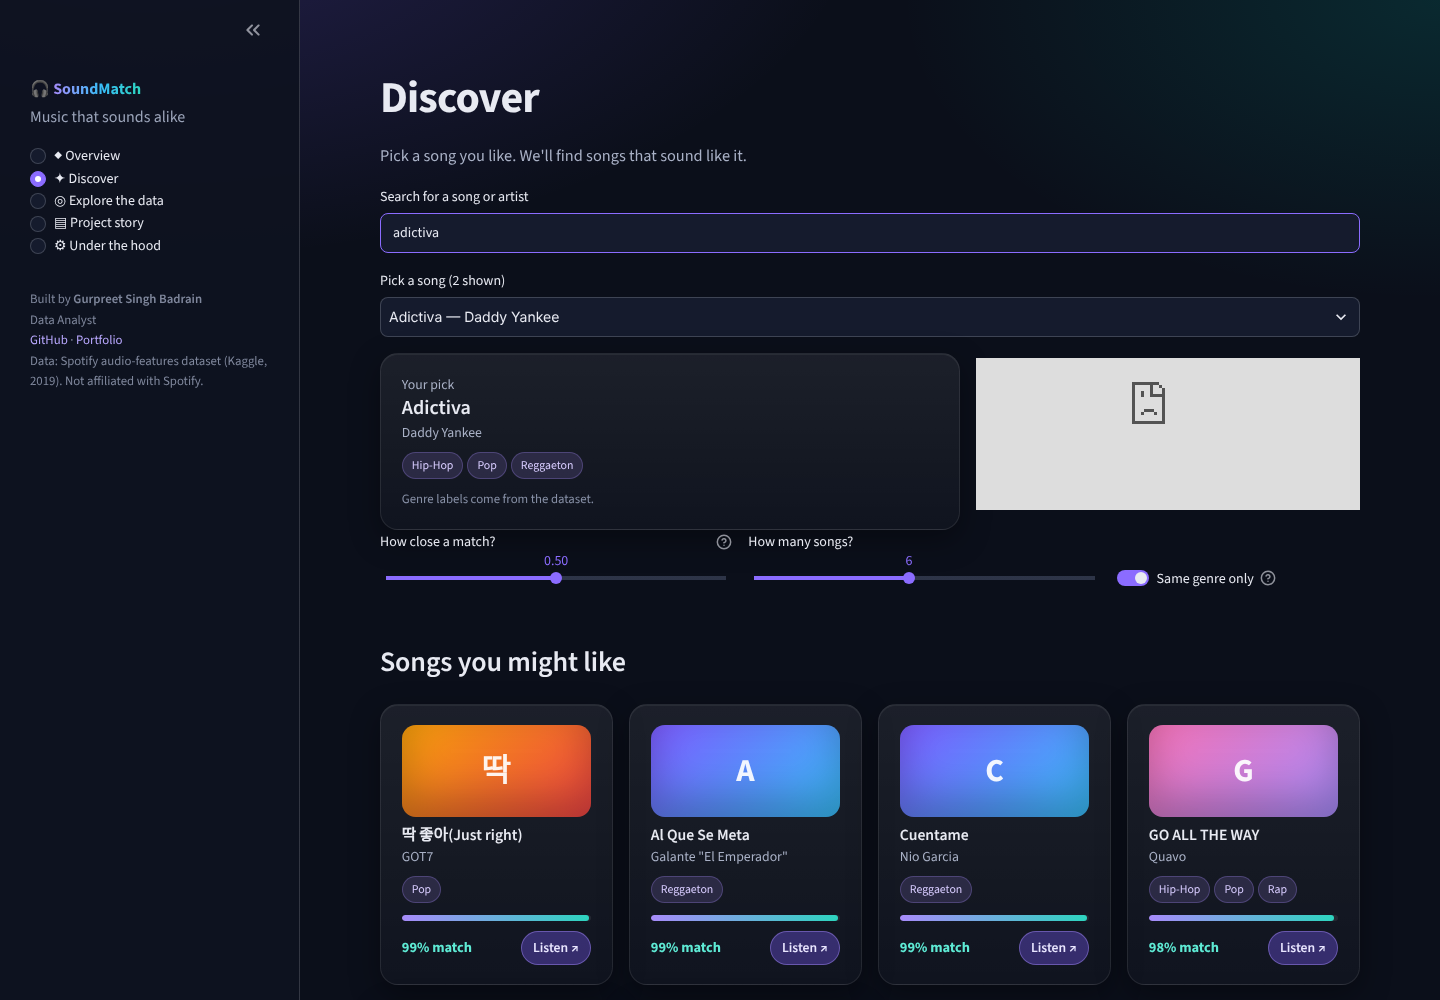
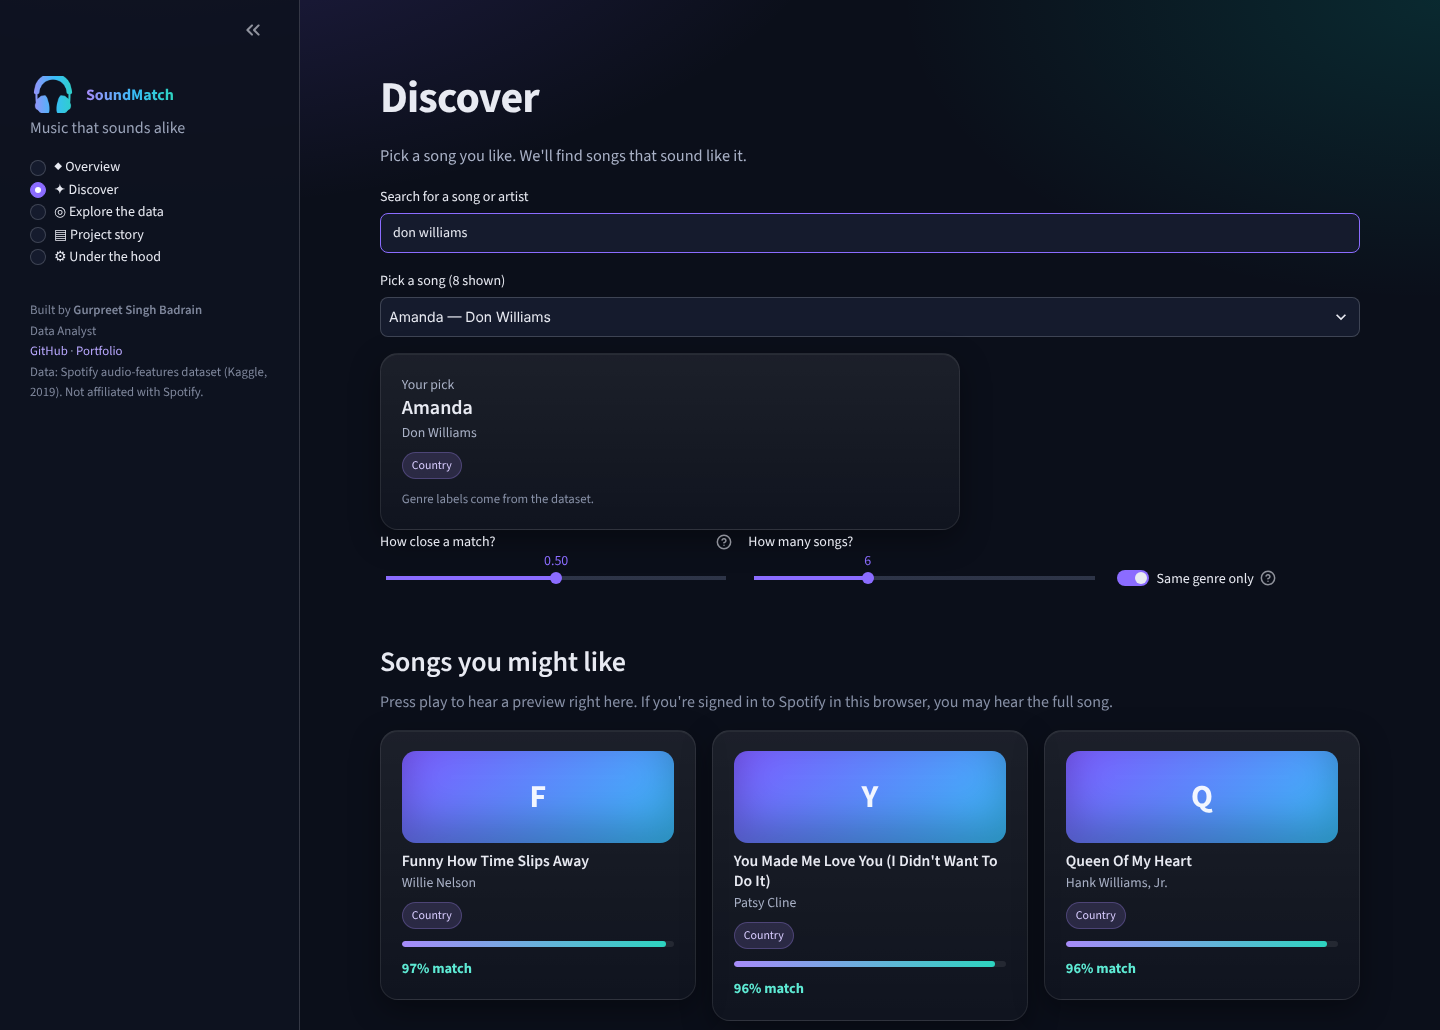
README: highlights, skills table, refreshed screenshots; fit Under the hood table
Claude-Session: https://claude.ai/code/session_01TBiiZ687D8t4ovy21VsVzU

diff --git a/dashboard.py b/dashboard.py
@@ -366,8 +366,9 @@ def show_under_the_hood():
     st.dataframe(
         table, hide_index=True, width="stretch",
         column_config={
-            "Match": st.column_config.ProgressColumn("Match", format="%d%%", min_value=0, max_value=100),
-            "Listen": st.column_config.LinkColumn("Listen", display_text="Open ↗"),
+            "Match": st.column_config.ProgressColumn("Match", format="%d%%", min_value=0, max_value=100, width="small"),
+            "Listen": st.column_config.LinkColumn("Listen", display_text="Open ↗", width="small"),
+            "Song": st.column_config.TextColumn("Song", width="large"),
         },
     )
     st.caption("Feature values are standardized (0 = average across all songs).")

diff --git a/README.md b/README.md
@@ -10,6 +10,25 @@
 
 ![SoundMatch overview page](docs/screenshots/overview.png)
 
+## Highlights
+
+- **Listen while you browse.** Every recommended song has its own small Spotify player, so you can hear matches without leaving the page.
+- **Explains itself.** A radar chart shows *why* songs match (their sound profiles line up), and a histogram shows how rare a close match really is.
+- **Fast.** Search a song and get matches in under a second, with no external API calls.
+- **Correct and tested.** Two real bugs found and fixed during the 2026 upgrade, with 33 automated tests guarding the logic.
+- **Honest about the data.** The app shows each song's dataset genre labels and notes their limits instead of hiding them.
+
+### Skills demonstrated
+
+| Area | What this project shows |
+|---|---|
+| Data cleaning | Handling missing values, duplicate listings, and inconsistent text across 232,000 rows |
+| Feature engineering | Choosing which features belong in a similarity model (and removing ID-like columns that distort it) |
+| Recommender systems | Cosine similarity on standardized features, top-N retrieval with a fast partial sort, genre filtering |
+| Debugging | Tracing a production crash to a library upgrade, and a silent scoring bug to an index mismatch |
+| Data visualization | 3D UMAP map, parallel coordinates, violin plots, radar and histogram charts with Plotly |
+| Software practice | Automated tests (pytest), pinned dependencies, version control, deployment on Streamlit Community Cloud |
+
 ---
 
 ## What you can do
@@ -17,12 +36,14 @@
 | Page | What it does |
 |---|---|
 | **Overview** | What the app does, key numbers, and how it works in three steps |
-| **Discover** | Search a song, get matches as cards with a match %, genre labels and a link to listen on Spotify. Choose how close a match you want, how many songs, and whether to stay in the same genre |
+| **Discover** | Search a song, play it, and get matches as cards with a match %, genre labels and a built-in Spotify player on every song. Choose how close a match you want, how many songs, and whether to stay in the same genre |
 | **Explore the data** | Interactive 3D genre map (UMAP), genre "fingerprints" (parallel coordinates), and how features spread across genres (violin plots) |
 | **Project story** | The slides from the original analysis |
 | **Under the hood** | The method in plain words, the full numbers behind every match, a radar chart of why songs match, and how rare a close match is |
 
 ![Discover page](docs/screenshots/discover.png)
+
+*Example: Don Williams' "Amanda" returns Willie Nelson, Patsy Cline, Hank Williams Jr., Conway Twitty and George Strait — all classic country, found from sound alone. (The Spotify players appear under each card in the live app.)*
 
 ## How the recommendations work
 
@@ -63,6 +84,7 @@ This started as a 2025 data-analytics bootcamp project. In November 2026 it was 
 - **Cleaner feature set**: removed label-encoded IDs, UMAP and cluster columns from the similarity math, which had been mixing "made-up" numbers into "sounds alike".
 - **Much faster**: removed a built-in 2-second pause per Spotify lookup, replaced the 175,000-item dropdown with a search box, and now builds Spotify links directly from track IDs (no API calls). Search to results took about 0.6 seconds in testing.
 - **New design**: dark theme, card layout, match % bars, renamed pages and plain-language wording.
+- **Built-in listening and explanations**: a Spotify player on every recommendation, plus radar and histogram charts that explain each result.
 - **Tests and pinned versions**: 33 automated tests (`pytest`) and exact package versions, so a surprise library update can't break the app again.
 
 ## Data
